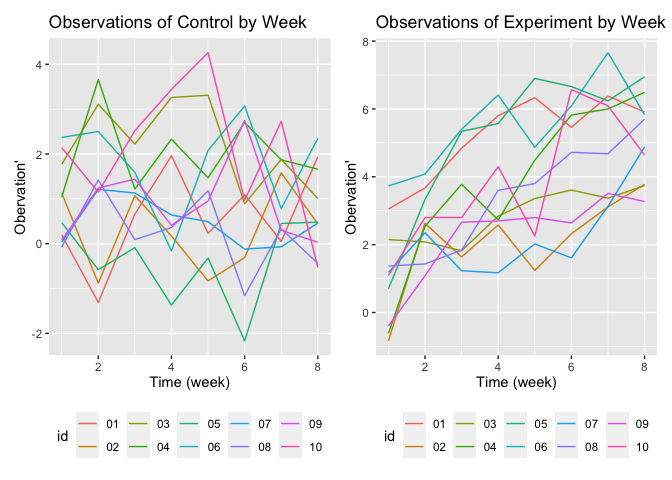
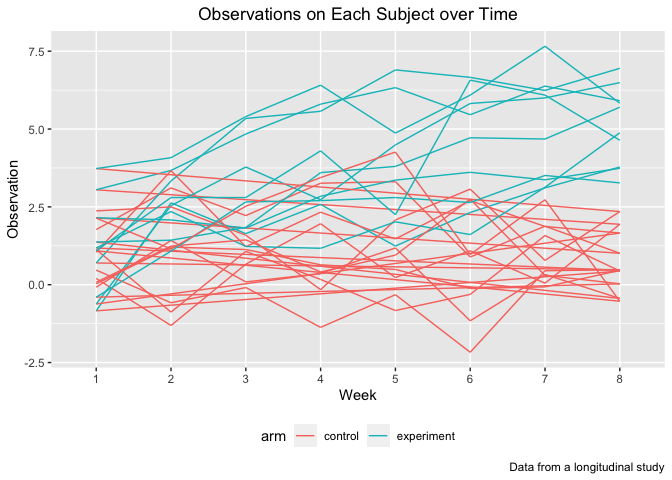
adjuested plot for problem 1

diff --git a/p8105_hw5_jz3571.md b/p8105_hw5_jz3571.md
@@ -49,27 +49,16 @@ longstudy_df
     ## # … with 150 more rows
 
 ``` r
-control_plot = longstudy_df %>% 
-  filter(arm == "control") %>% 
-  mutate(week = as.numeric(week))%>% 
-  ggplot(aes(x = week, y = observation, group = id)) +
-  geom_line(aes(color = id)) +
-  labs(title = "Observations of Control by Week",
-       x = "Time (week)",
-       y = "Obervation'") +
-  theme(legend.position = "bottom")
-
-experiment_plot = longstudy_df %>% 
-  filter(arm == "experiment") %>% 
-  mutate(week = as.numeric(week))%>% 
-  ggplot(aes(x = week, y = observation, group = id)) +
-  geom_line(aes(color = id)) +
-  labs(title = "Observations of Experiment by Week",
-       x = "Time (week)",
-       y = "Obervation'") +
-  theme(legend.position = "bottom")
-
-control_plot + experiment_plot
+longstudy_df %>% 
+  ggplot(aes(x = week, y = observation)) +
+  geom_path(aes(color = arm,group = as.factor(id))) +
+  labs(
+    title = "Observations on Each Subject over Time",
+    x = "Week",
+    y = "Observation",
+    caption = "Data from a longitudinal study") +
+  theme(legend.position = "bottom") +
+  theme(plot.title = element_text(hjust = 0.5))
 ```
 
 ![](p8105_hw5_jz3571_files/figure-gfm/unnamed-chunk-4-1.png)<!-- -->
@@ -121,13 +110,13 @@ homicide_bal = homicide_tidy %>%
 
 prop.test(homicide_bal$unresolved, homicide_bal$total) %>% 
   broom::tidy() %>% 
-  select(estimate, conf.low, conf.high)
+  select(estimate, conf.low, conf.high) %>% 
+  knitr::kable()
 ```
 
-    ## # A tibble: 1 × 3
-    ##   estimate conf.low conf.high
-    ##      <dbl>    <dbl>     <dbl>
-    ## 1    0.646    0.628     0.663
+|  estimate |  conf.low | conf.high |
+|----------:|----------:|----------:|
+| 0.6455607 | 0.6275625 | 0.6631599 |
 
 ### Prop.test for each city
 
@@ -189,3 +178,17 @@ prop_city %>%
 ```
 
 ![](p8105_hw5_jz3571_files/figure-gfm/unnamed-chunk-9-1.png)<!-- -->
+
+## Problem 3
+
+``` r
+sim_mean_sd = function(n_obs, mu = 0, sigma = 4){
+  
+  x = rnorm(n = n_obs, mean = mu, sd = sigma)
+  
+  tibble(
+    mean = mean(x),
+    sd = sd(x)
+     )
+}
+```
